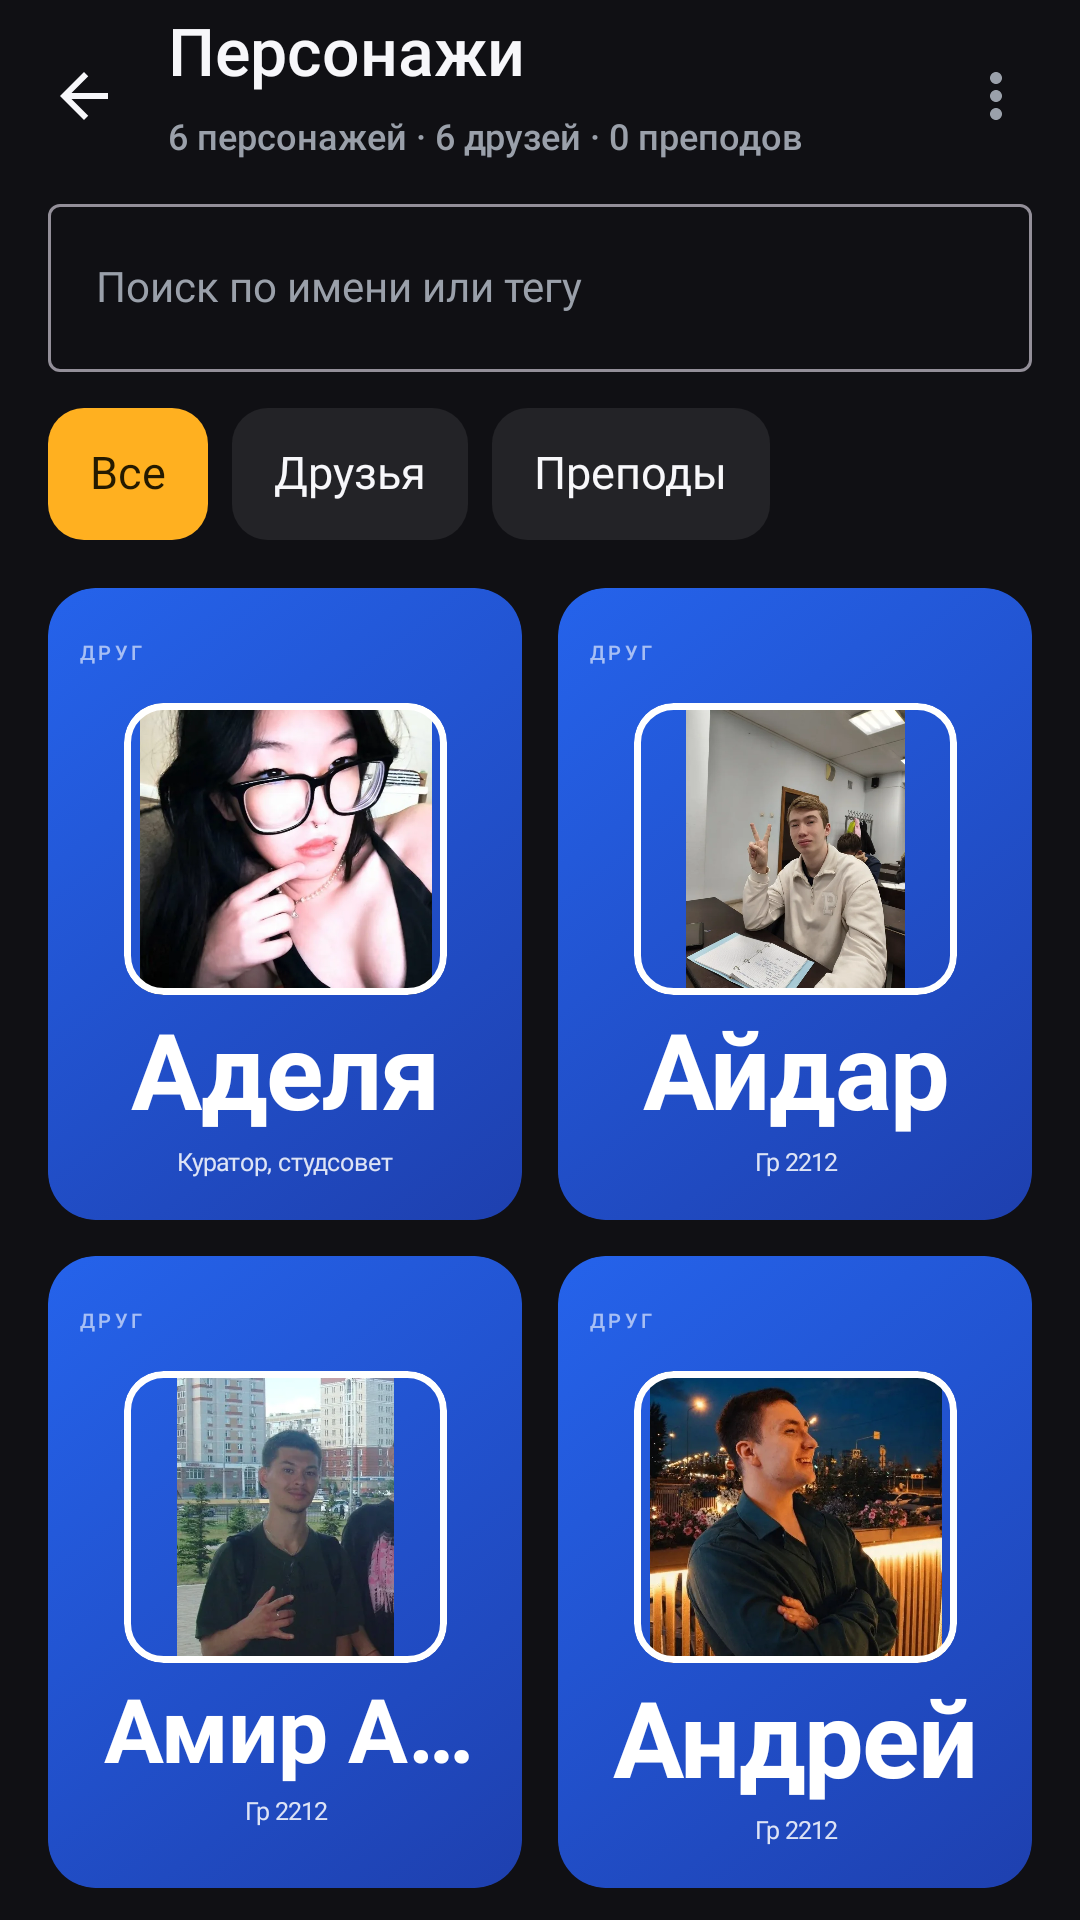
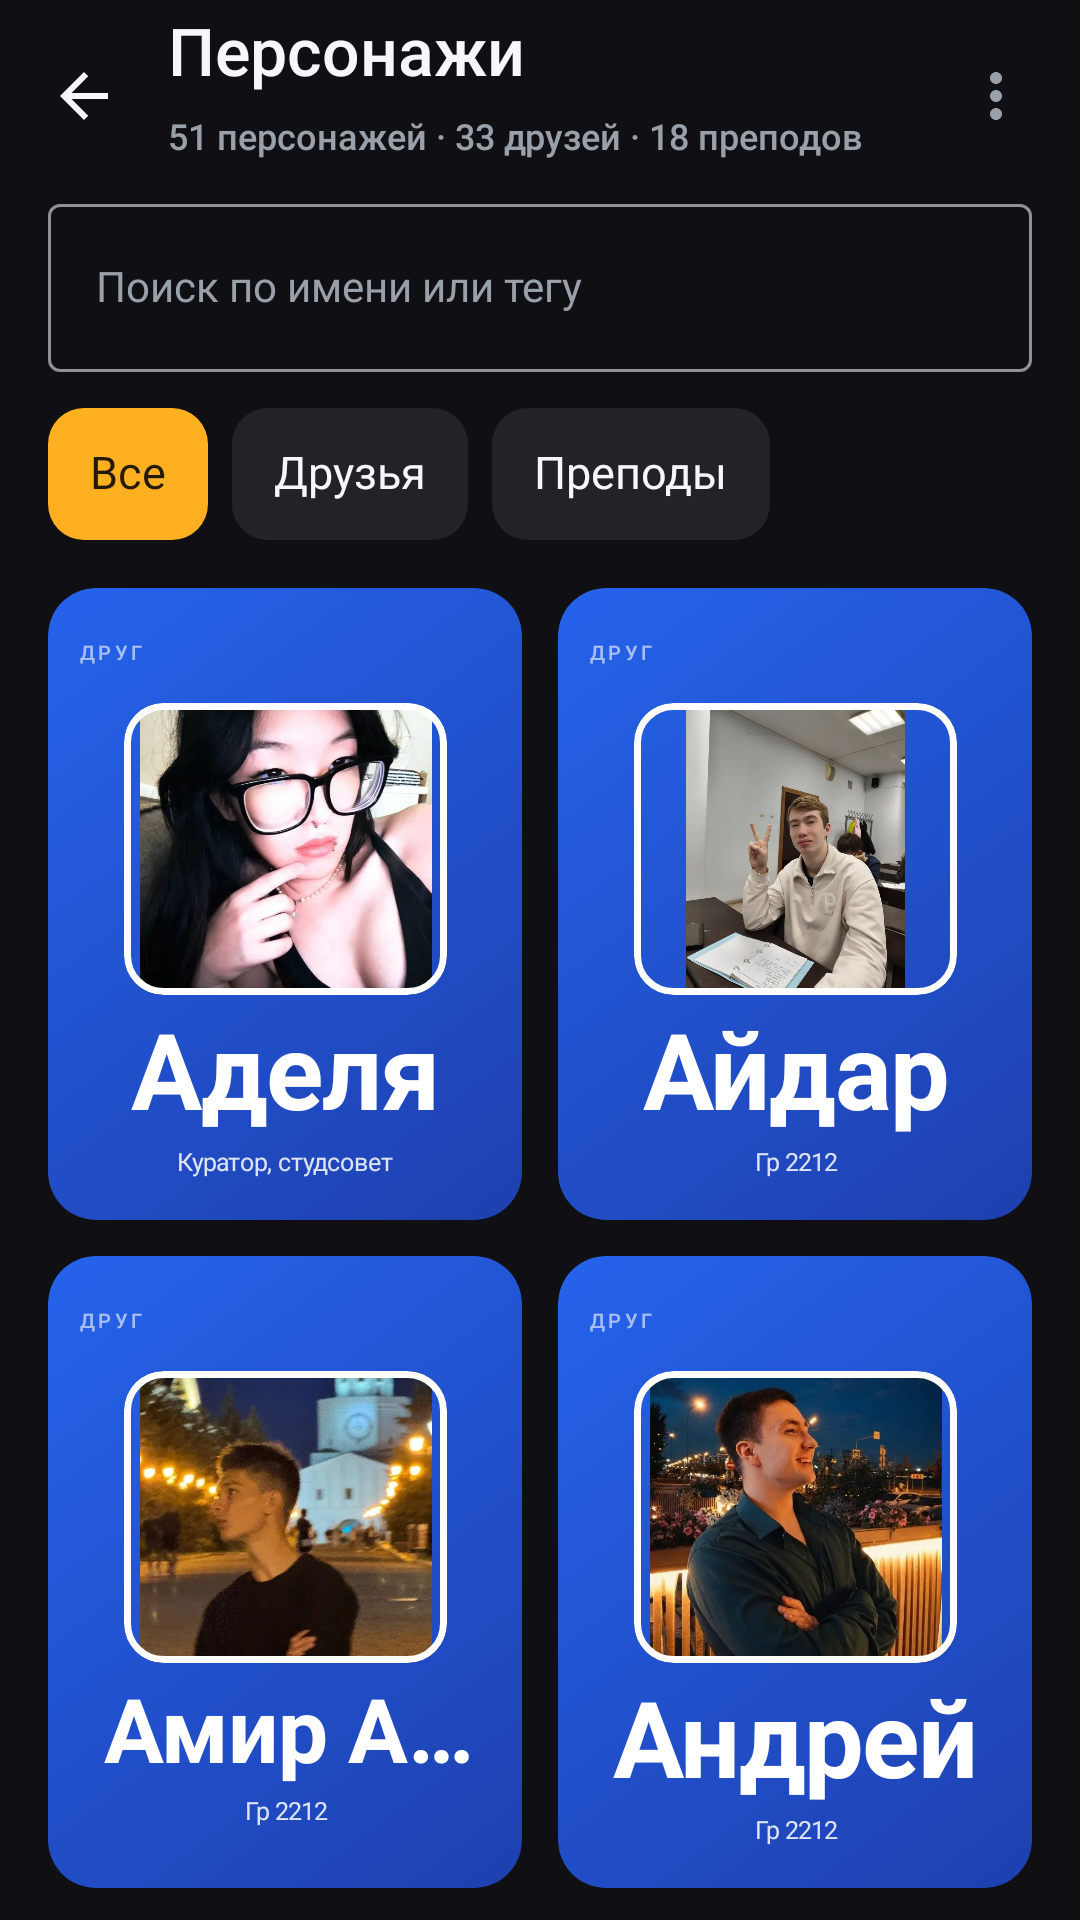
1.5: фильтр мелких дублей фото (51 человек / 176 фото), README

diff --git a/android/app/src/test/java/com/kstoya/univer/ScreenshotTest.kt b/android/app/src/test/java/com/kstoya/univer/ScreenshotTest.kt
@@ -83,7 +83,7 @@ class ScreenshotTest {
 
     @Test
     fun libraryWithRealPeople() {
-        val people = realPeople(6)
+        val people = realPeople(100)
         compose.setContent {
             KtoYaTheme(dark = true) {
                 LibraryScreen(

diff --git a/tools/prepare_materials.py b/tools/prepare_materials.py
@@ -73,6 +73,11 @@ def copy_photos(src_dir: Path, dst_dir: Path) -> list[str]:
         p for p in src_dir.iterdir()
         if p.suffix.lower() in PHOTO_EXT and not p.name.lower().startswith(FLAG_PREFIXES)
     )
+    # очень мелкие кадры (мессенджер сжал) не крутим в игре, если есть нормальные
+    sized = [(p, Image.open(p).size) for p in files]
+    good = [p for p, size in sized if min(size) >= 400]
+    if good:
+        files = good
     for i, src in enumerate(files, start=1):
         img = Image.open(src)
         img = img.convert("RGBA")

diff --git a/README.md b/README.md
@@ -30,10 +30,10 @@
[1 lines of base64/hex data omitted]
   (ключ в репозитории — обновления ставятся поверх).
 
-## Что нового в 1.4
+## Что нового в 1.5
 
-- **Реальный банк:** 51 человек (33 студента, 18 преподавателей), 190 фото; у каждого 1–23 кадра,
-  на раунд берётся случайное фото.
+- **Реальный банк:** 51 человек (33 студента, 18 преподавателей), 176 фото; у каждого до 23 кадров,
+  на раунд берётся случайное фото. Совсем мелкие дубли (сжатые мессенджером) отфильтрованы.
 - **Голоса отсчёта:** 4 записи в `assets/voices/go/`, играют каждый раз перед карточкой (и перед
   повторным показом). `final` пока пуст — играет встроенный звук.
 - **Громкость голосов** (старт/финал) регулируется отдельным ползунком в настройках и не влияет
